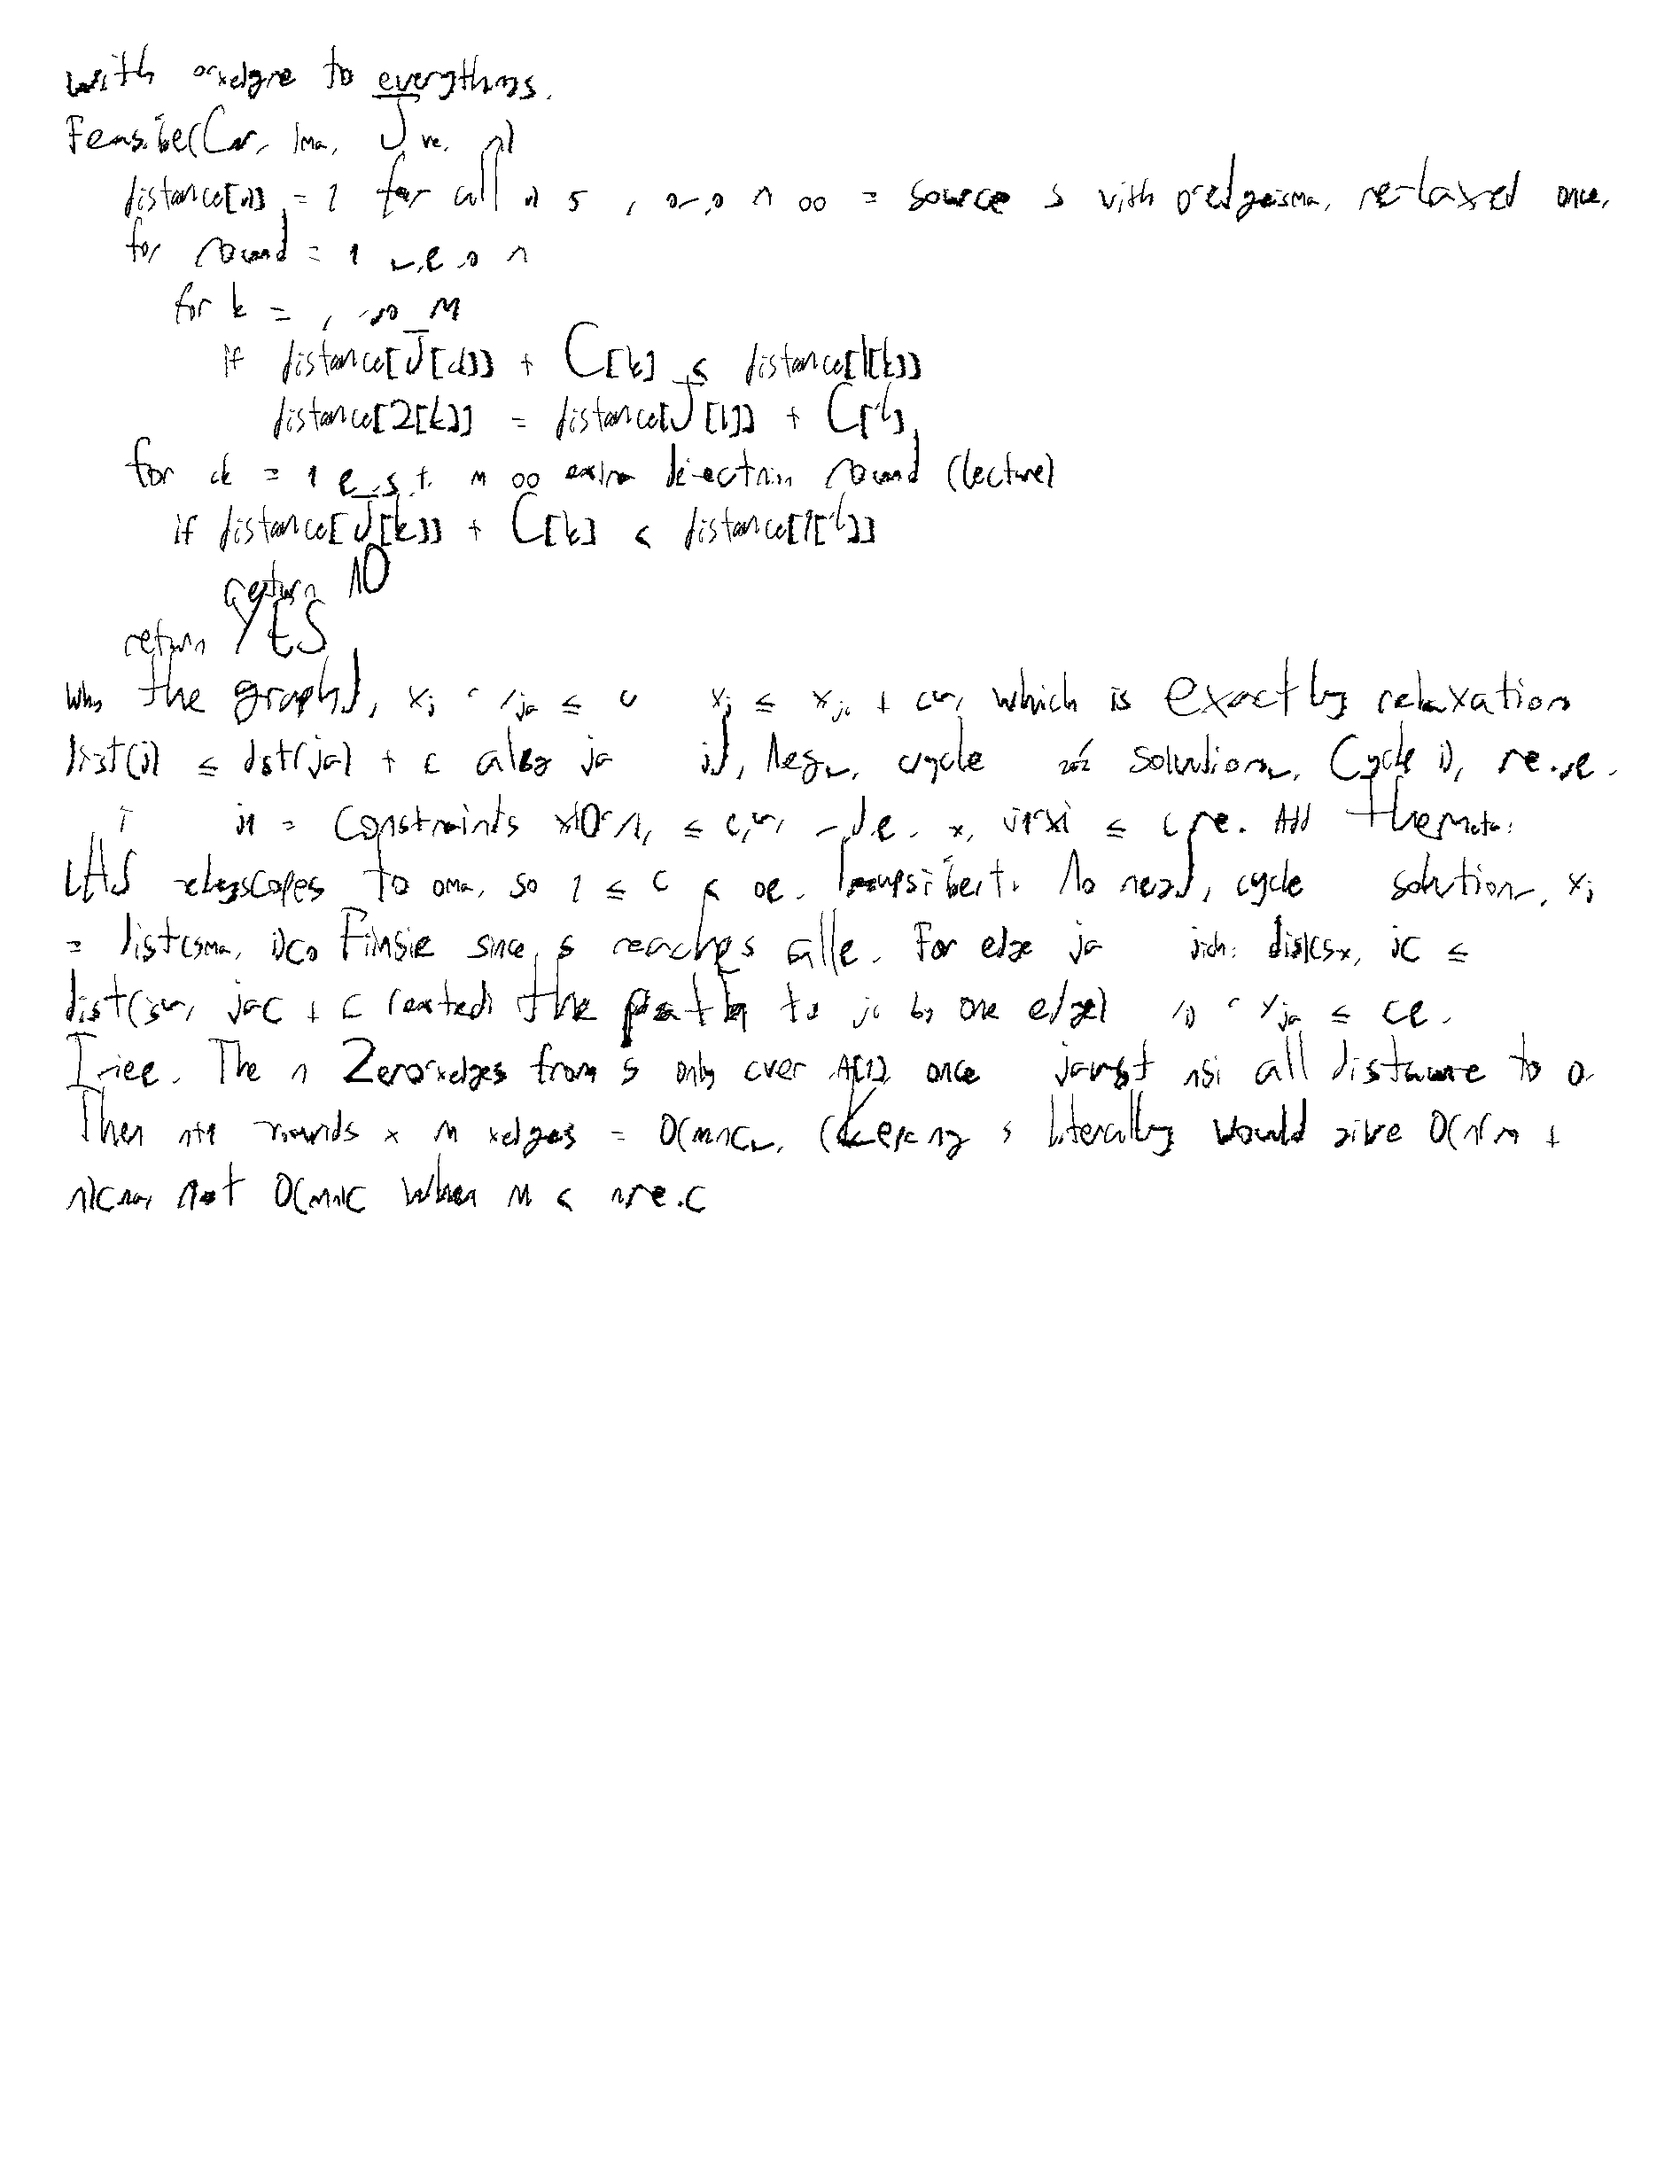
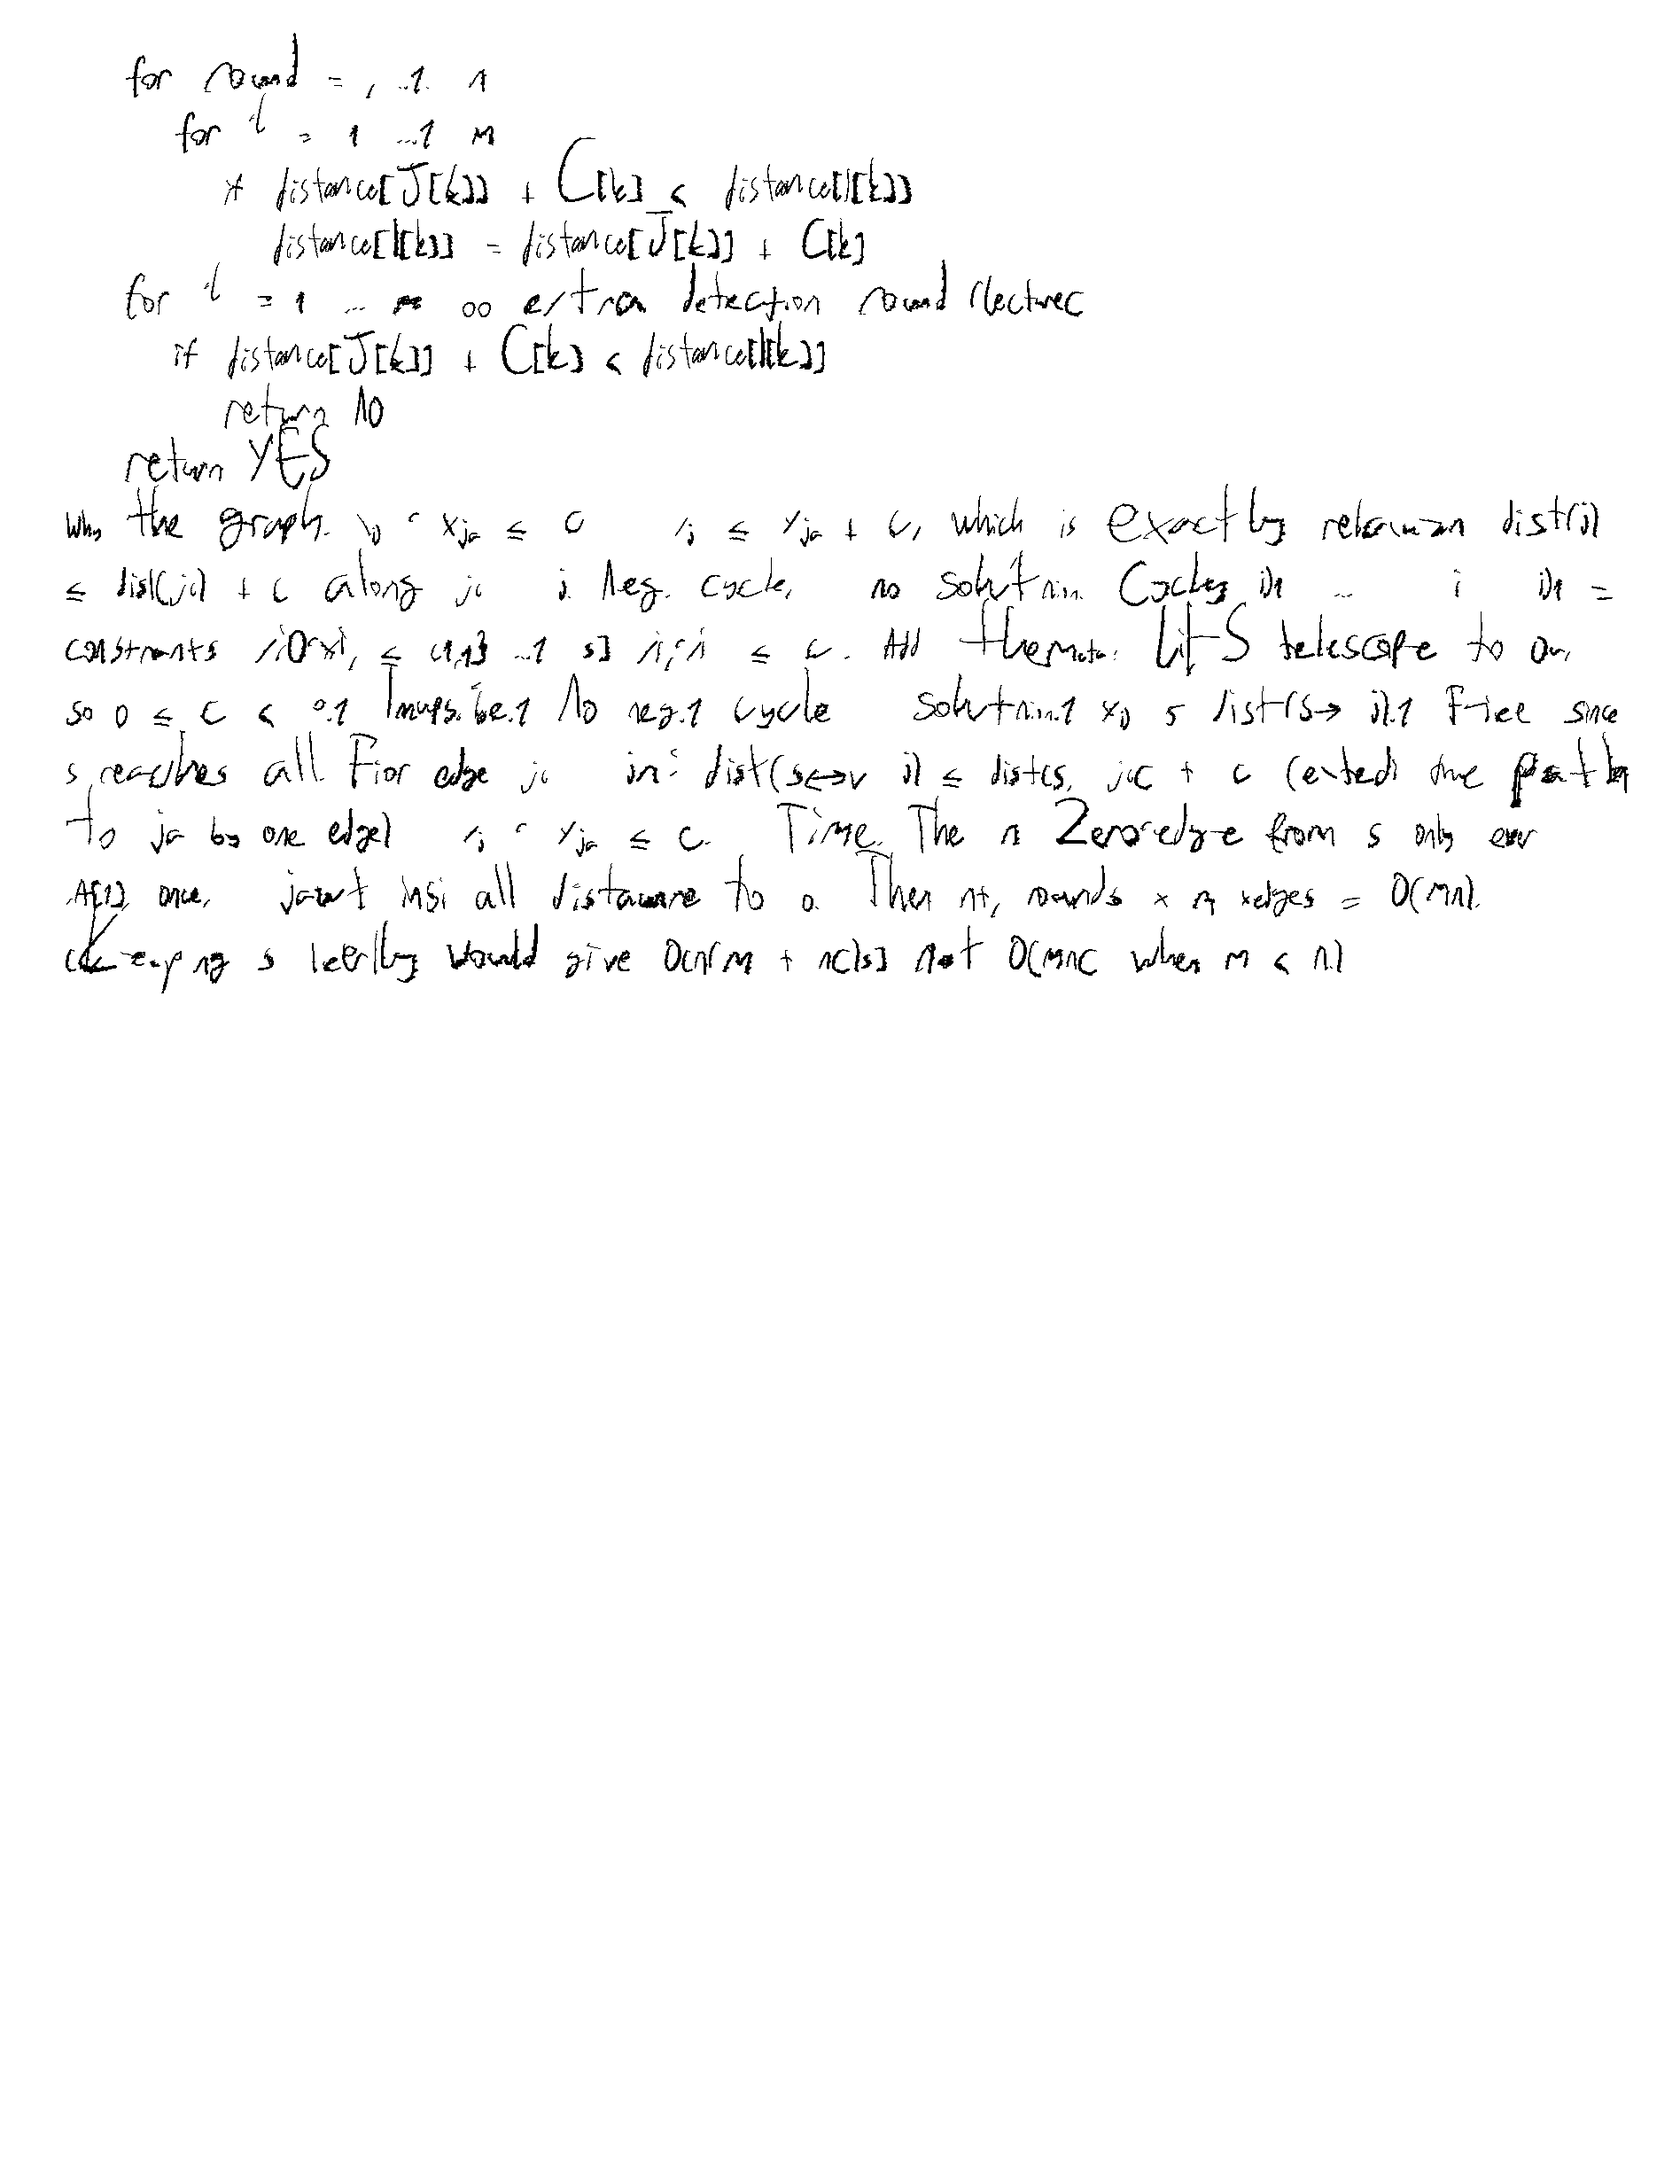
Apply the front-matter, |V| and punctuation-source edits that the previous commit claimed

diff --git a/inkclone/source_doc.py b/inkclone/source_doc.py
@@ -45,7 +45,7 @@ def parse(path):
                 if prev_x1 is not None and sp["bbox"][0] - prev_x1 > 0.18 * size and not t.startswith(("_", "^")): txt += " "
                 txt += t; prev_x1 = sp["bbox"][2]
             txt = txt.replace("̸=", "≠").replace("=⇒", "⇒").replace("⇐⇒", "⇔").replace("· · ·", "...").replace(". . .", "...").replace("−", "-")
-            txt = re.sub(r"\|\s*([A-Za-z])\s*\|", r"||", txt)
+            txt = re.sub(r"\|\s*([A-Za-z])\s*\|", lambda m: "|" + m.group(1) + "|", txt)
             bold = "CMBX" in main["font"] or "Bold" in main["font"]
             merged.append({"x": sps[0]["bbox"][0], "y": g["y"], "size": size, "bold": bold, "text": re.sub(r"\s+", " ", txt).strip(), "font": main["font"]})
         body_x = min(r["x"] for r in merged if not r["bold"]) if merged else 0
@@ -71,9 +71,12 @@ def parse(path):
 
 
 def merge_paragraphs(lines):
-    """Join consecutive prose lines into paragraphs; a bold lead word (Why. / Time.) starts a new one."""
-    out = []
+    """Join consecutive prose lines into paragraphs; a bold lead word (Why. / Time.) starts a new one.
+    Anything before the first header is front matter (title, author, due date) and is kept as separate lines."""
+    out = []; seen_header = False
     for ln in lines:
+        if ln["kind"] == "header": seen_header = True
+        if not seen_header and ln["kind"] == "prose": out.append(dict(ln, kind="meta")); continue
         if ln["kind"] == "prose" and out and out[-1]["kind"] == "prose" and not ln.get("bold_lead"):
             out[-1]["text"] = (out[-1]["text"] + " " + ln["text"]).strip()
         else:

diff --git a/inkclone/page.py b/inkclone/page.py
@@ -22,7 +22,7 @@ class Page:
         self.missing = collections.Counter()
 
     # ---- glyph sources -------------------------------------------------------------
-    PUNCT_FROM_PROSE = set(",.;:'-?!")
+    PUNCT_FROM_PROSE = set(";:'?!")  # commas/periods/hyphens from prose cuts are too dirty; use the sheet bank
 
     def symbol(self, c):
         # punctuation: the prose-derived letter bank has many more, with quality scores
